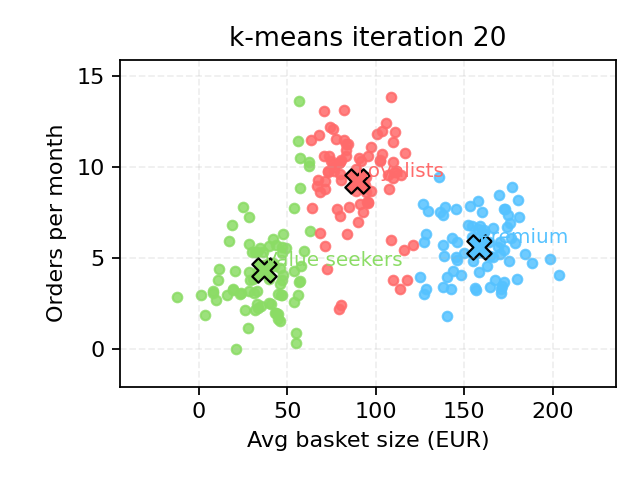
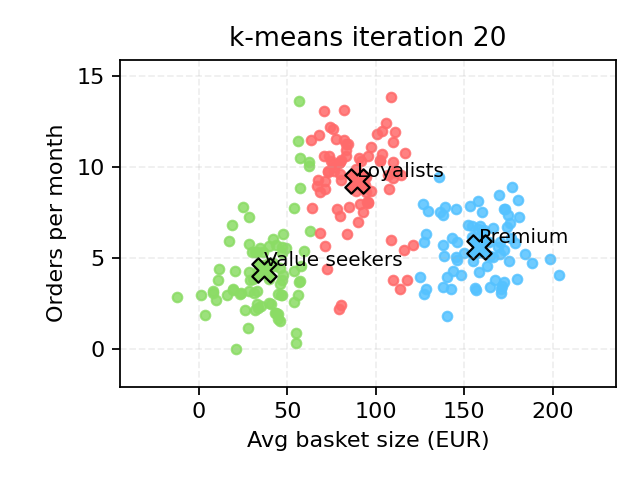
Update k-means animation color scheme to use black for cluster labels and replace the final k-means segment image with a new version for improved clarity.

Changed region(s): [[0.75, 0.4688, 0.9062, 0.5312], [0.4062, 0.5312, 0.625, 0.5625], [0.5625, 0.3438, 0.6875, 0.375]]

diff --git a/animations/src/animations/k-means.py b/animations/src/animations/k-means.py
@@ -115,7 +115,7 @@ def render_frame(
                 cy + 0.2,
                 cluster_names[nearest],
                 fontsize=9,
-                color=colors[i % len(colors)],
+                color="black",
             )
 
     buf = BytesIO()
